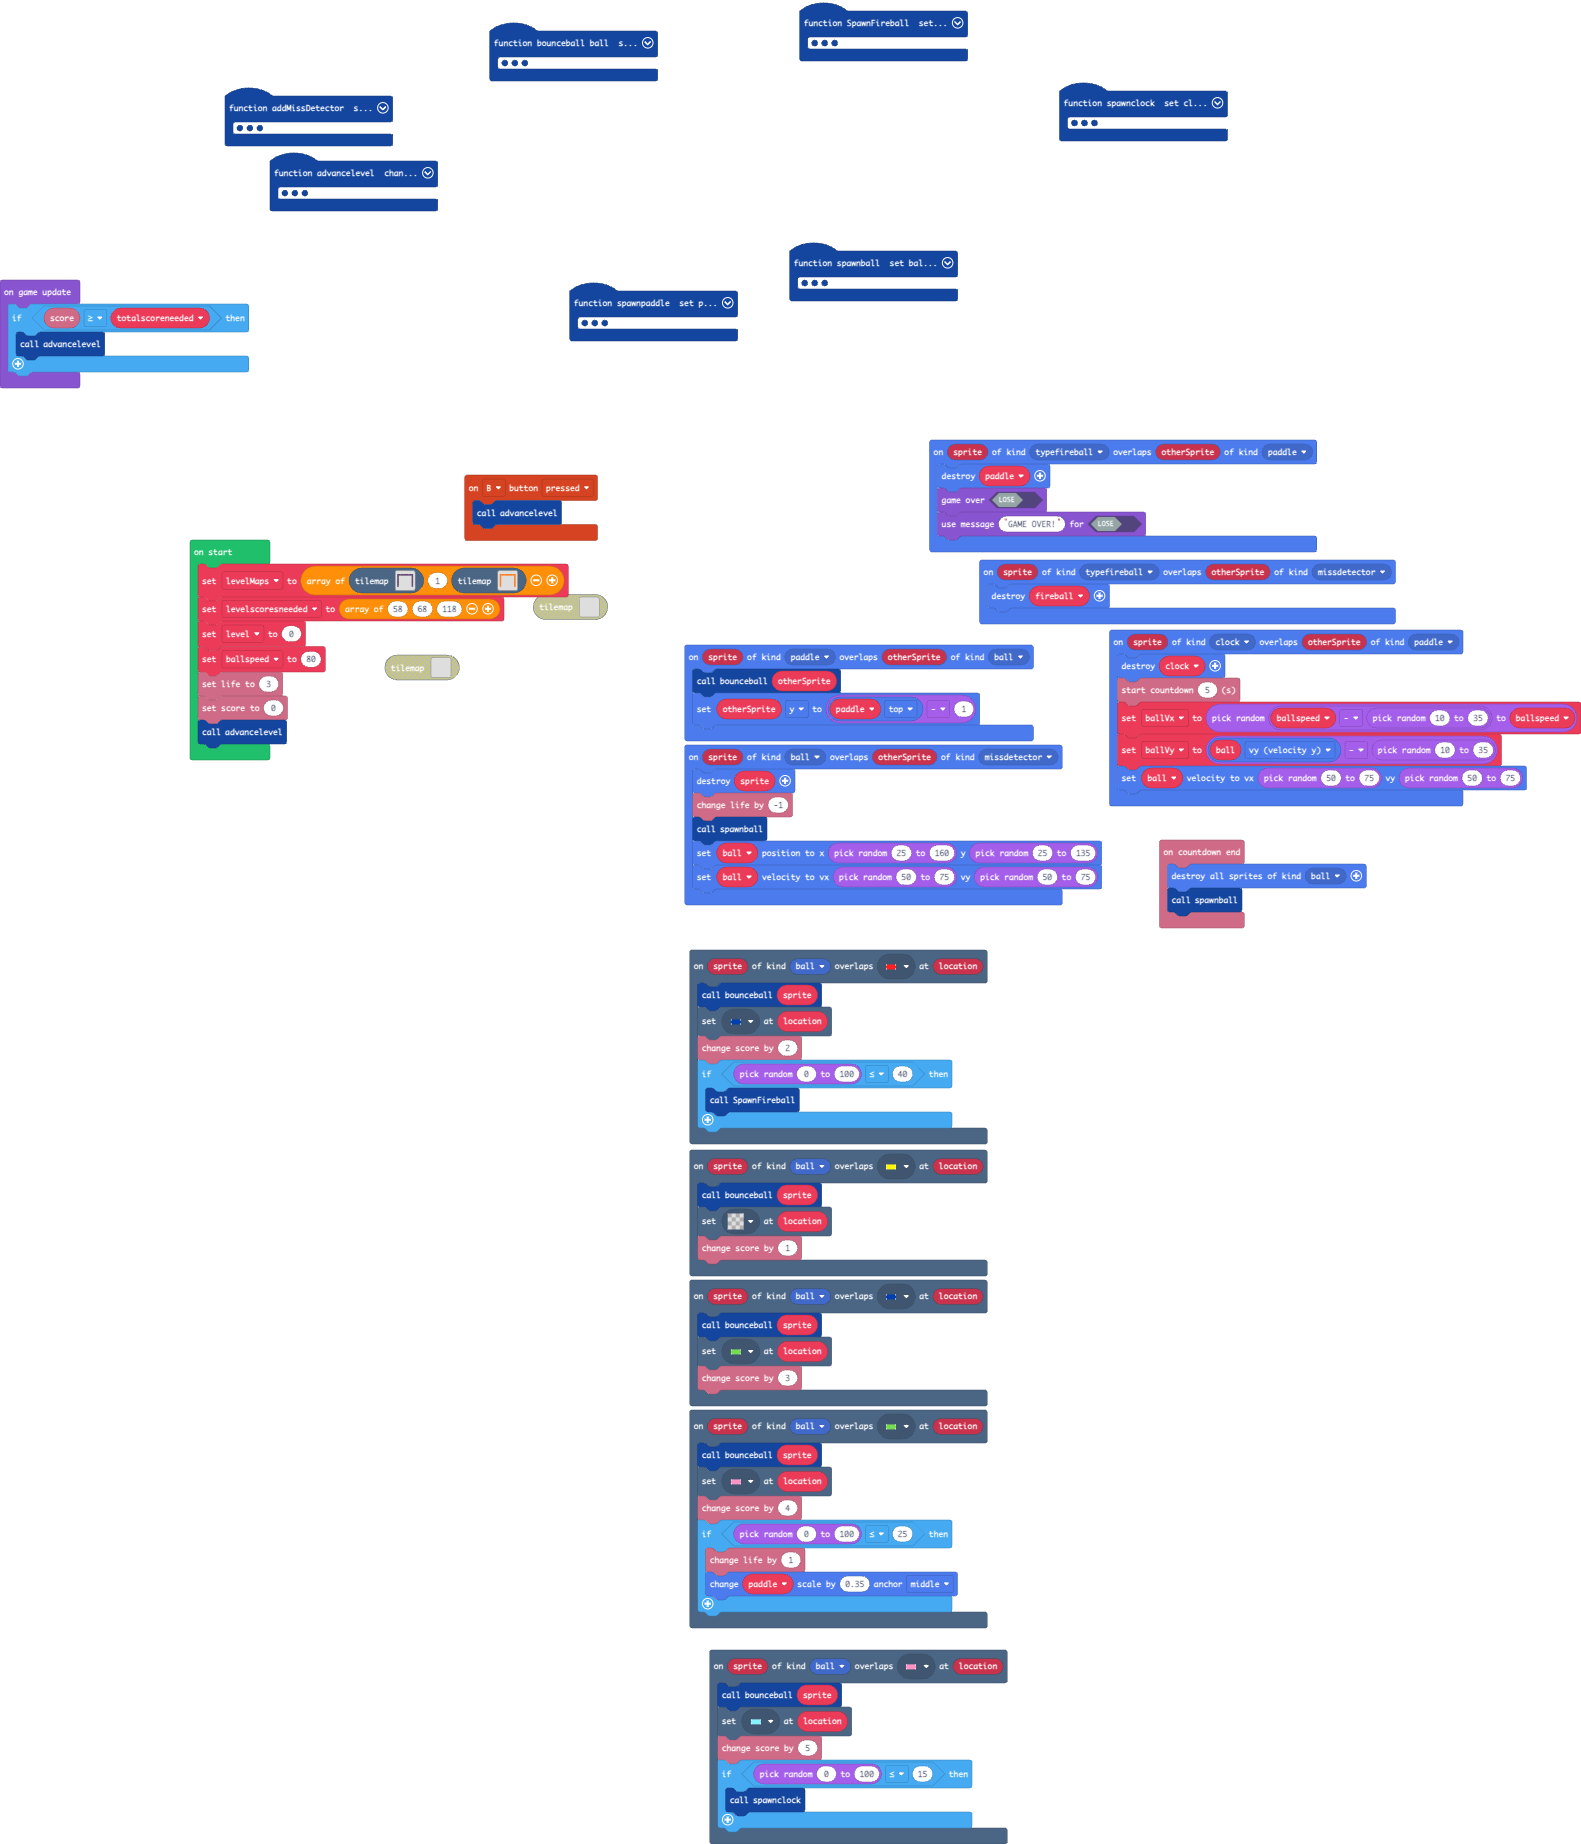
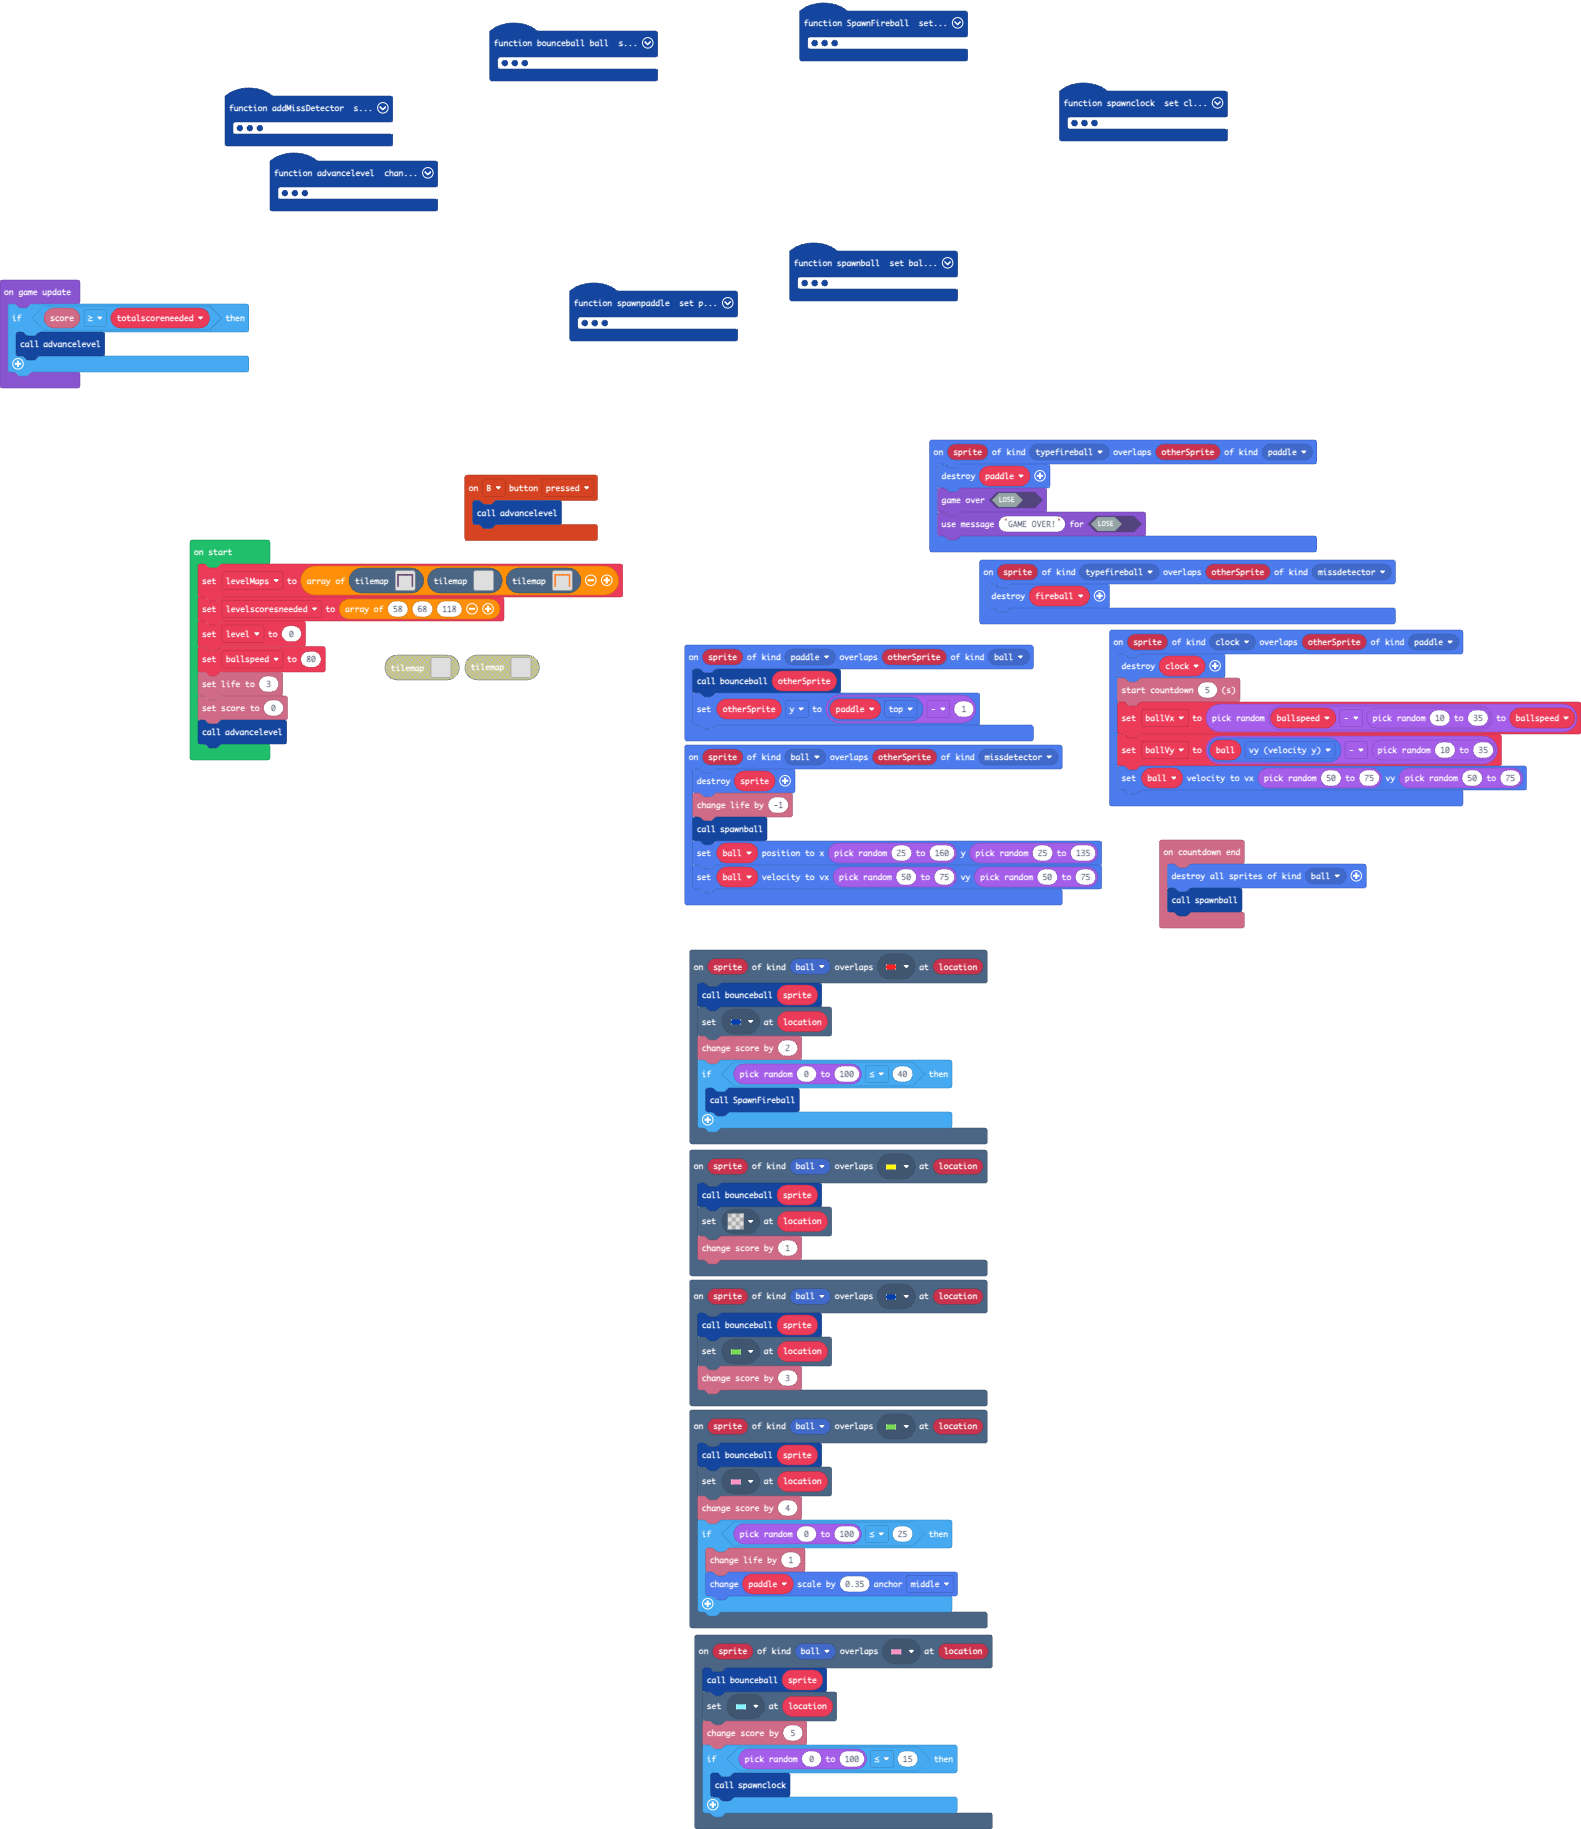
Update main.blocks, main.ts

diff --git a/main.ts b/main.ts
@@ -215,7 +215,7 @@ let ballspeed = 0
 let level = 0
 let levelscoresneeded: number[] = []
 let levelMaps: tiles.TileMapData[] = []
-levelMaps = [tilemap`level5`, 1, tilemap`level19`]
+levelMaps = [tilemap`level5`, tilemap`level7`, tilemap`level19`]
 levelscoresneeded = [58, 68, 118]
 level = 0
 ballspeed = 80
